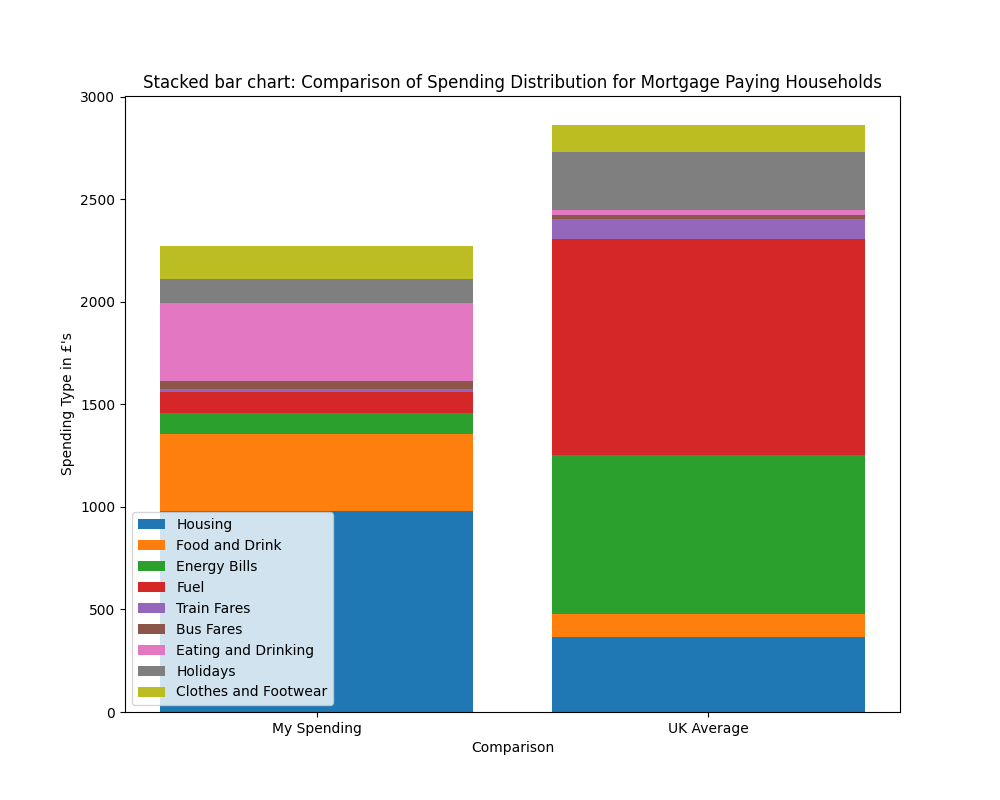
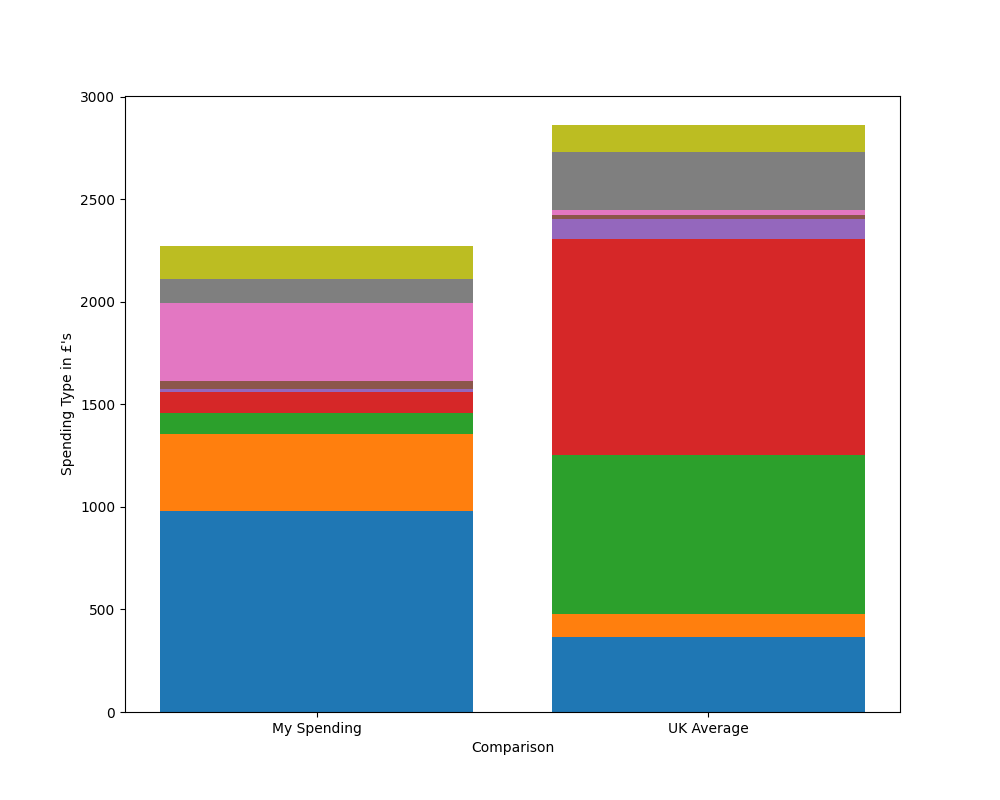
legend removed from pie and stacked bar chart and now displayed independently

Changed region(s): [[0.124, 0.625, 0.341, 0.9062], [0.155, 0.0938, 0.899, 0.125]]

diff --git a/application/finance.py b/application/finance.py
@@ -18,8 +18,8 @@ class Finance:
         plt.subplot()
         plt.pie(df['spending'], colors=colours, autopct='%d%%')
         plt.axis('equal')
-        plt.title("Test Pie Chart")
-        plt.legend(df['expenditure'], loc='upper right', bbox_to_anchor=(1,1), fontsize=7)
+        #plt.title("Test Pie Chart")
+        #plt.legend(df['expenditure'], loc='upper right', bbox_to_anchor=(1,1), fontsize=7)
         plt.savefig('application/static/images/piechart.png', transparent=True)
         # use beautiful seaborn colours
         # creates a dataframe that matplot can use
@@ -64,10 +64,10 @@ class Finance:
         plt.bar(x, clothes, bottom = clothes_bottom)
         ax.set_xticks(range(len(expenditure)))
         ax.set_xticklabels((expenditure))
-        plt.title("Stacked bar chart: Comparison of Spending Distribution for Mortgage Paying Households")
+        #plt.title("Stacked bar chart: Comparison of Spending Distribution for Mortgage Paying Households")
         plt.xlabel("Comparison")
         plt.ylabel("Spending Type in £'s")
-        plt.legend(("Housing", "Food and Drink", "Energy Bills", "Fuel", "Train Fares", "Bus Fares", "Eating and Drinking", "Holidays", "Clothes and Footwear"))
+        #plt.legend(("Housing", "Food and Drink", "Energy Bills", "Fuel", "Train Fares", "Bus Fares", "Eating and Drinking", "Holidays", "Clothes and Footwear"))
         plt.savefig('application/static/images/barstack.png', transparent=True)
         # this can be created using a dataframe but I didn't learn that, I might have to to use the nice seaborn colours
         # assign the list variables to the appropriate y_axis categories
